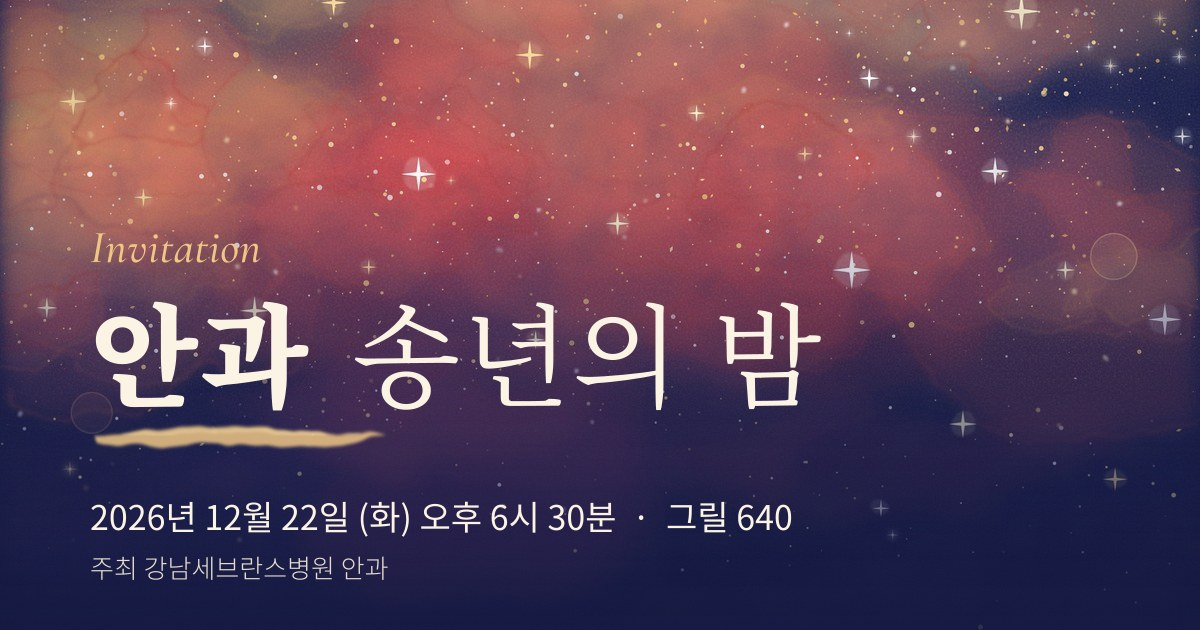
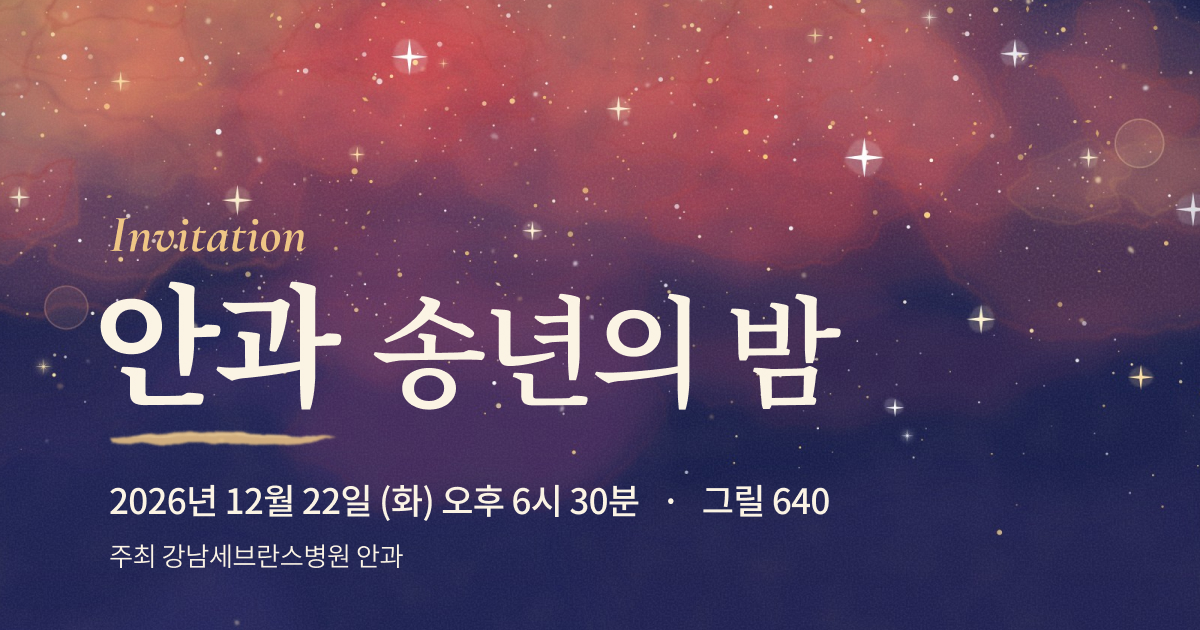
style: polish 2026 year-end invitation layout, fonts, and map link

diff --git a/2026-YEAREND/index.html b/2026-YEAREND/index.html
@@ -12,9 +12,9 @@
   <meta property="og:type" content="website">
   <meta property="og:site_name" content="강남세브란스병원 안과">
   <meta property="og:title" content="안과 송년의 밤">
-  <meta property="og:description" content="2026년 12월 22일(화) 오후 6시 30분 · 그릴 640">
-  <meta property="og:image" content="https://gangnam-eye-yearend.vercel.app/assets/og.jpg?v=2">
-  <meta property="og:image:secure_url" content="https://gangnam-eye-yearend.vercel.app/assets/og.jpg?v=2">
+  <meta property="og:description" content="2026년 12월 22일(화) 6:30 PM · 그릴 640">
+  <meta property="og:image" content="https://gangnam-eye-yearend.vercel.app/assets/og.jpg?v=3">
+  <meta property="og:image:secure_url" content="https://gangnam-eye-yearend.vercel.app/assets/og.jpg?v=3">
   <meta property="og:image:width" content="1200">
   <meta property="og:image:height" content="630">
   <meta property="og:url" content="https://gangnam-eye-yearend.vercel.app/">
@@ -22,13 +22,13 @@
   <!-- Twitter Card -->
   <meta name="twitter:card" content="summary_large_image">
   <meta name="twitter:title" content="안과 송년의 밤">
-  <meta name="twitter:description" content="2026년 12월 22일(화) 오후 6시 30분 · 그릴 640">
-  <meta name="twitter:image" content="https://gangnam-eye-yearend.vercel.app/assets/og.jpg?v=2">
+  <meta name="twitter:description" content="2026년 12월 22일(화) 6:30 PM · 그릴 640">
+  <meta name="twitter:image" content="https://gangnam-eye-yearend.vercel.app/assets/og.jpg?v=3">
 
   <link rel="preconnect" href="https://fonts.googleapis.com">
   <link rel="preconnect" href="https://fonts.gstatic.com" crossorigin>
   <link
-    href="https://fonts.googleapis.com/css2?family=Cormorant+Garamond:ital,wght@0,600;1,500&family=Josefin+Sans:wght@300&family=Noto+Serif+KR:wght@400;500;600;700;800;900&family=Noto+Sans+KR:wght@300;400;500&display=swap"
+    href="https://fonts.googleapis.com/css2?family=Cormorant+Garamond:ital,wght@0,300..700;1,300..700&family=Josefin+Sans:wght@100..700&family=Noto+Serif+KR:wght@200..900&family=Noto+Sans+KR:wght@100..900&display=swap"
     rel="stylesheet">
 
   <style>
@@ -66,9 +66,29 @@
       max-width: 480px;
       position: relative;
       overflow: hidden;
-      background: var(--night) url("assets/bg.jpg") no-repeat center top / 100% auto;
+      background: var(--night);
       box-shadow: 0 0 40px rgba(0, 0, 0, .35);
       padding: 0 28px;
+      isolation: isolate;
+    }
+
+    .page::before {
+      content: "";
+      position: absolute;
+      left: 0;
+      top: 0;
+      width: 100%;
+      aspect-ratio: 960 / 1358;
+      background:
+        linear-gradient(to bottom,
+          rgba(23, 27, 61, 0) 55%,
+          rgba(23, 27, 61, .14) 68%,
+          rgba(23, 27, 61, .45) 79%,
+          rgba(23, 27, 61, .82) 89%,
+          var(--night) 98%),
+        url("assets/bg.jpg") no-repeat center top / 100% 100%;
+      pointer-events: none;
+      z-index: -1;
     }
 
     /* twinkling stars over the watercolor sky (positions match the painted stars) */
@@ -143,14 +163,16 @@
       font-weight: 500;
       font-size: 28px;
       color: var(--gold);
-      letter-spacing: .01em
+      letter-spacing: .01em;
+      margin-left: 15px
     }
 
     .lead {
       font-weight: 300;
       font-size: 18px;
       letter-spacing: .02em;
-      margin-top: 10px
+      margin-top: 10px;
+      margin-left: 15px
     }
 
     h1 {
@@ -160,23 +182,29 @@
       line-height: 1.2;
       letter-spacing: .01em;
       margin-top: 8px;
+      padding-bottom: 24px;
       word-break: keep-all
     }
 
-    /* 제목 두 부분: '안과'는 굵게, '송년의 밤'은 얇게 */
+    /* 제목 두 부분: '안과'는 굵게, '송년의 밤'은 얇고 조금 작게 */
     .h-dept {
+      position: relative;
+      display: inline-block;
       font-weight: 600
     }
 
     .h-night {
-      font-weight: 400
+      font-weight: 400;
+      font-size: .82em
     }
 
     .brush {
-      display: block;
-      width: 150px;
+      position: absolute;
+      left: -2%;
+      bottom: -0.38em;
+      width: 104%;
       height: auto;
-      margin-top: 14px
+      pointer-events: none
     }
 
     .msg {
@@ -205,7 +233,7 @@
     .row {
       display: flex;
       flex-direction: column;
-      gap: 6px
+      gap: 10px
     }
 
     .row+.row {
@@ -224,7 +252,7 @@
     }
 
     .val {
-      font-weight: 500;
+      font-weight: 400;
       font-size: 20px;
       line-height: 1.4;
       word-break: keep-all
@@ -232,11 +260,11 @@
 
     .sub {
       display: block;
-      font-weight: 400;
+      font-weight: 300;
       font-size: 15.5px;
       line-height: 1.5;
       color: var(--soft);
-      margin-top: 4px;
+      margin-top: 6px;
       word-break: keep-all
     }
 
@@ -276,6 +304,15 @@
       filter: drop-shadow(0 0 4px rgba(255, 246, 220, .7));
       color: #fff6dc;
       animation: twinkle 2.6s ease-in-out infinite
+    }
+
+    .glitter-spark.sm {
+      width: 11px;
+      height: 11px;
+      margin-left: -4px;
+      margin-top: 9px;
+      animation-duration: 2.2s;
+      animation-delay: 1.1s
     }
 
     /* ── Countdown ── */
@@ -382,12 +419,13 @@
       border-top: 1px solid rgba(255, 255, 255, .16);
       display: flex;
       align-items: center;
-      gap: 14px
+      gap: 18px
     }
 
     .foot img {
       width: 50px;
       height: 50px;
+      margin-left: 10px;
       flex: none
     }
 
@@ -526,9 +564,10 @@
     <header class="hero">
       <p class="eyebrow rise" style="animation-delay:.1s">Invitation</p>
       <p class="lead rise" style="animation-delay:.25s">눈부신 한 해를 함께한</p>
-      <h1 class="rise" style="animation-delay:.4s"><span class="h-dept">안과</span> <span class="h-night">송년의 밤</span>
+      <h1 class="rise" style="animation-delay:.4s"><span class="h-dept">안과<img class="brush rise"
+            style="animation-delay:.55s" src="assets/brush.png" alt="" aria-hidden="true"></span> <span
+          class="h-night">송년의 밤</span>
       </h1>
-      <img class="brush rise" style="animation-delay:.55s" src="assets/brush.png" alt="" aria-hidden="true">
     </header>
 
     <p class="msg rise" style="animation-delay:.7s">
@@ -551,6 +590,8 @@
         <span class="lab">DRESS CODE</span>
         <span class="val"><span class="red">Red</span> &amp; <span class="glitter">Glitter</span><svg
             class="glitter-spark" viewBox="0 0 24 24" aria-hidden="true">
+            <path fill="currentColor" d="M12 0l1.4 10.6L24 12l-10.6 1.4L12 24l-1.4-10.6L0 12l10.6-1.4z" />
+          </svg><svg class="glitter-spark sm" viewBox="0 0 24 24" aria-hidden="true">
             <path fill="currentColor" d="M12 0l1.4 10.6L24 12l-10.6 1.4L12 24l-1.4-10.6L0 12l10.6-1.4z" />
           </svg><span class="sub">레드 컬러와 반짝이는 아이템을<br>함께 매치해 주세요</span></span>
       </div>
@@ -612,7 +653,7 @@
       placeName: "그릴 640",                         // 장소 이름
       placeSub: "강남구 테헤란로16길 13 동원빌딩 1층",   // 주소
       copyAddress: "서울 강남구 테헤란로16길 13 동원빌딩 1층", // '주소 복사' 때 복사되는 주소
-      mapUrl: "https://map.naver.com/p/search/" + encodeURIComponent("서울 강남구 테헤란로16길 13"), // 네이버 지도 공유 링크(naver.me/...)로 바꿔도 됩니다
+      mapUrl: "https://naver.me/xtgpKynn", // 네이버 지도 공유 링크(naver.me/...)로 바꿔도 됩니다
       rsvpUrl: ""                                    // 구글폼 등 회신 링크 (비워두면 버튼 숨김)
     };
     /* ============================================ */
